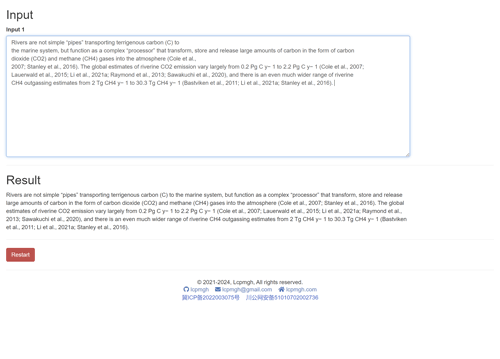
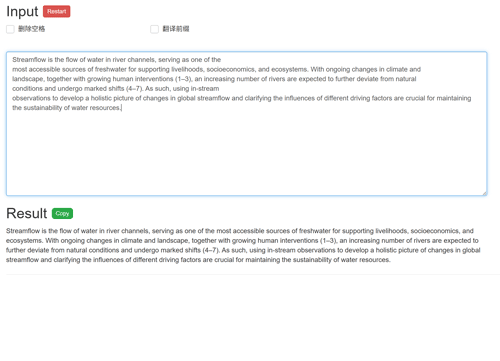
更新文件

Changed region(s): [[0.0, 0.0, 0.99, 0.7354], [0.36, 0.766, 0.63, 0.8579]]

diff --git a/index.html b/index.html
@@ -165,35 +165,35 @@
                     </a>
 					<h4>echarty画地图笔记</h4>
                     <p>使用echarty实现ECharts地图</p>
-                </div>	
-                <div class="app">
-                    <a href="https://lcpmgh.github.io/tempfiles/Rnote/statistic_test.html">
-                        <img src="https://lcpmgh.github.io/tempfiles/Rnote/aaapicture/app_learnstatistictest.png" alt="learnstatistictest">
-                    </a>
-					<h4>统计检验笔记</h4>
-                    <p>总结常用统计检验的理论与R代码</p>
-                </div>				
-                <!-- 继续添加更多：科研工具apps -->
-            </div>
-        </div>
-<!--            
+                </div>
                 <div class="app">
                     <a href="http://lcpmgh.com/smooth">
-                        <img src="aaapicture/app_smooth.png" alt="smooth">
+                        <img src="https://lcpmgh.github.io/tempfiles/Rnote/aaapicture/app_smooth.png" alt="smooth">
                     </a>
 					<h4>PDF文字复制优化</h4>
                     <p>将从PDF复制的文字优化为无换行半角纯文本</p>
                 </div>	
-        <div class="category">
-            <h2>其他工具和教程</h2>
-            <div class="apps">                
+				<div class="app">
+                    <a href="http://lcpmgh.com/compare">
+                        <img src="https://lcpmgh.github.io/tempfiles/Rnote/aaapicture/app_compare.png" alt="compare">
+                    </a>
+					<h4>文本对比</h4>
+                    <p>比较两段文本的差异</p>
+                </div>
                 <div class="app">
                     <a href="http://lcpmgh.com/count">
-                        <img src="aaapicture/app_count.png" alt="count">
+                        <img src="https://lcpmgh.github.io/tempfiles/Rnote/aaapicture/app_count.png" alt="count">
                     </a>
 					<h4>计数程序</h4>
                     <p>计数程序</p>
                 </div>	
+                <!-- 继续添加更多：科研工具apps -->
+            </div>
+        </div>
+<!--            
+        <div class="category">
+            <h2>其他工具和教程</h2>
+            <div class="apps">                
             </div>
         </div>
         <div class="category">
@@ -210,7 +210,7 @@
         </div>	
 -->				
         <!-- 继续添加更多category -->		
-    </div> 
+	</div>  
 
 <footer style="background-color: #f4f4f4; color: #333; padding: 10px 0; text-align: center;font-size: 0.7em; border-top: 1px solid #ddd;">
     <div>
